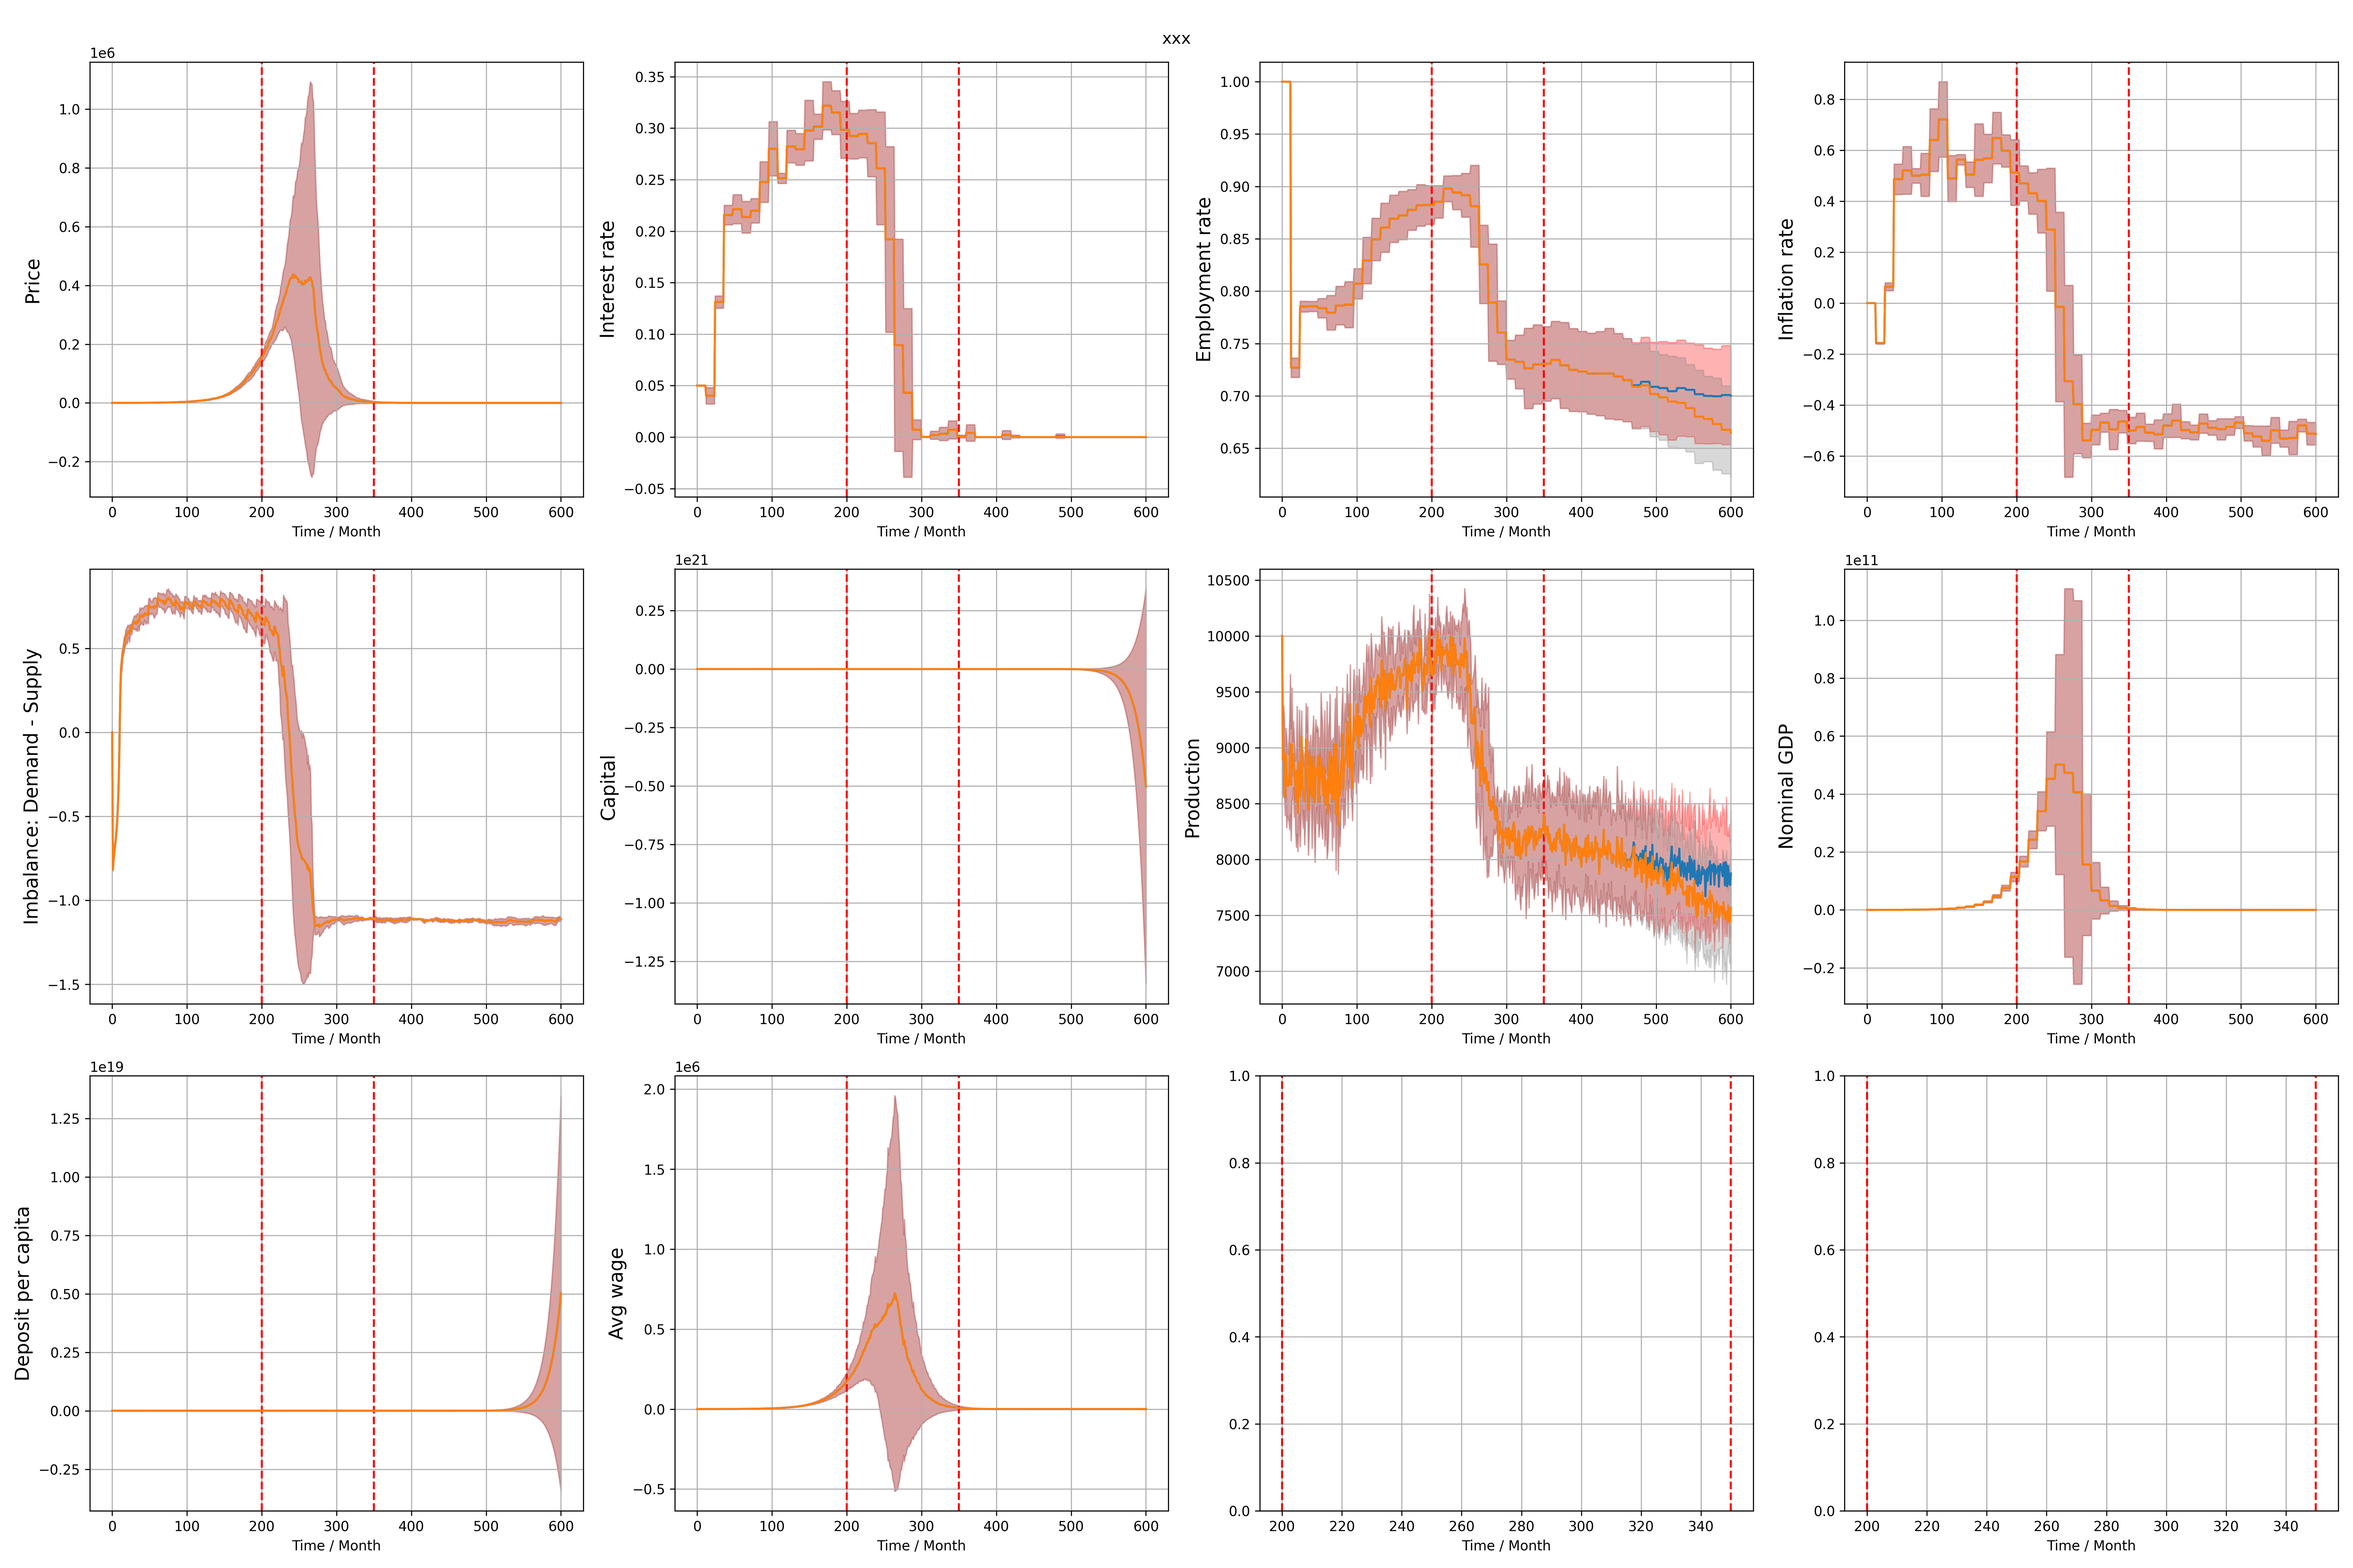
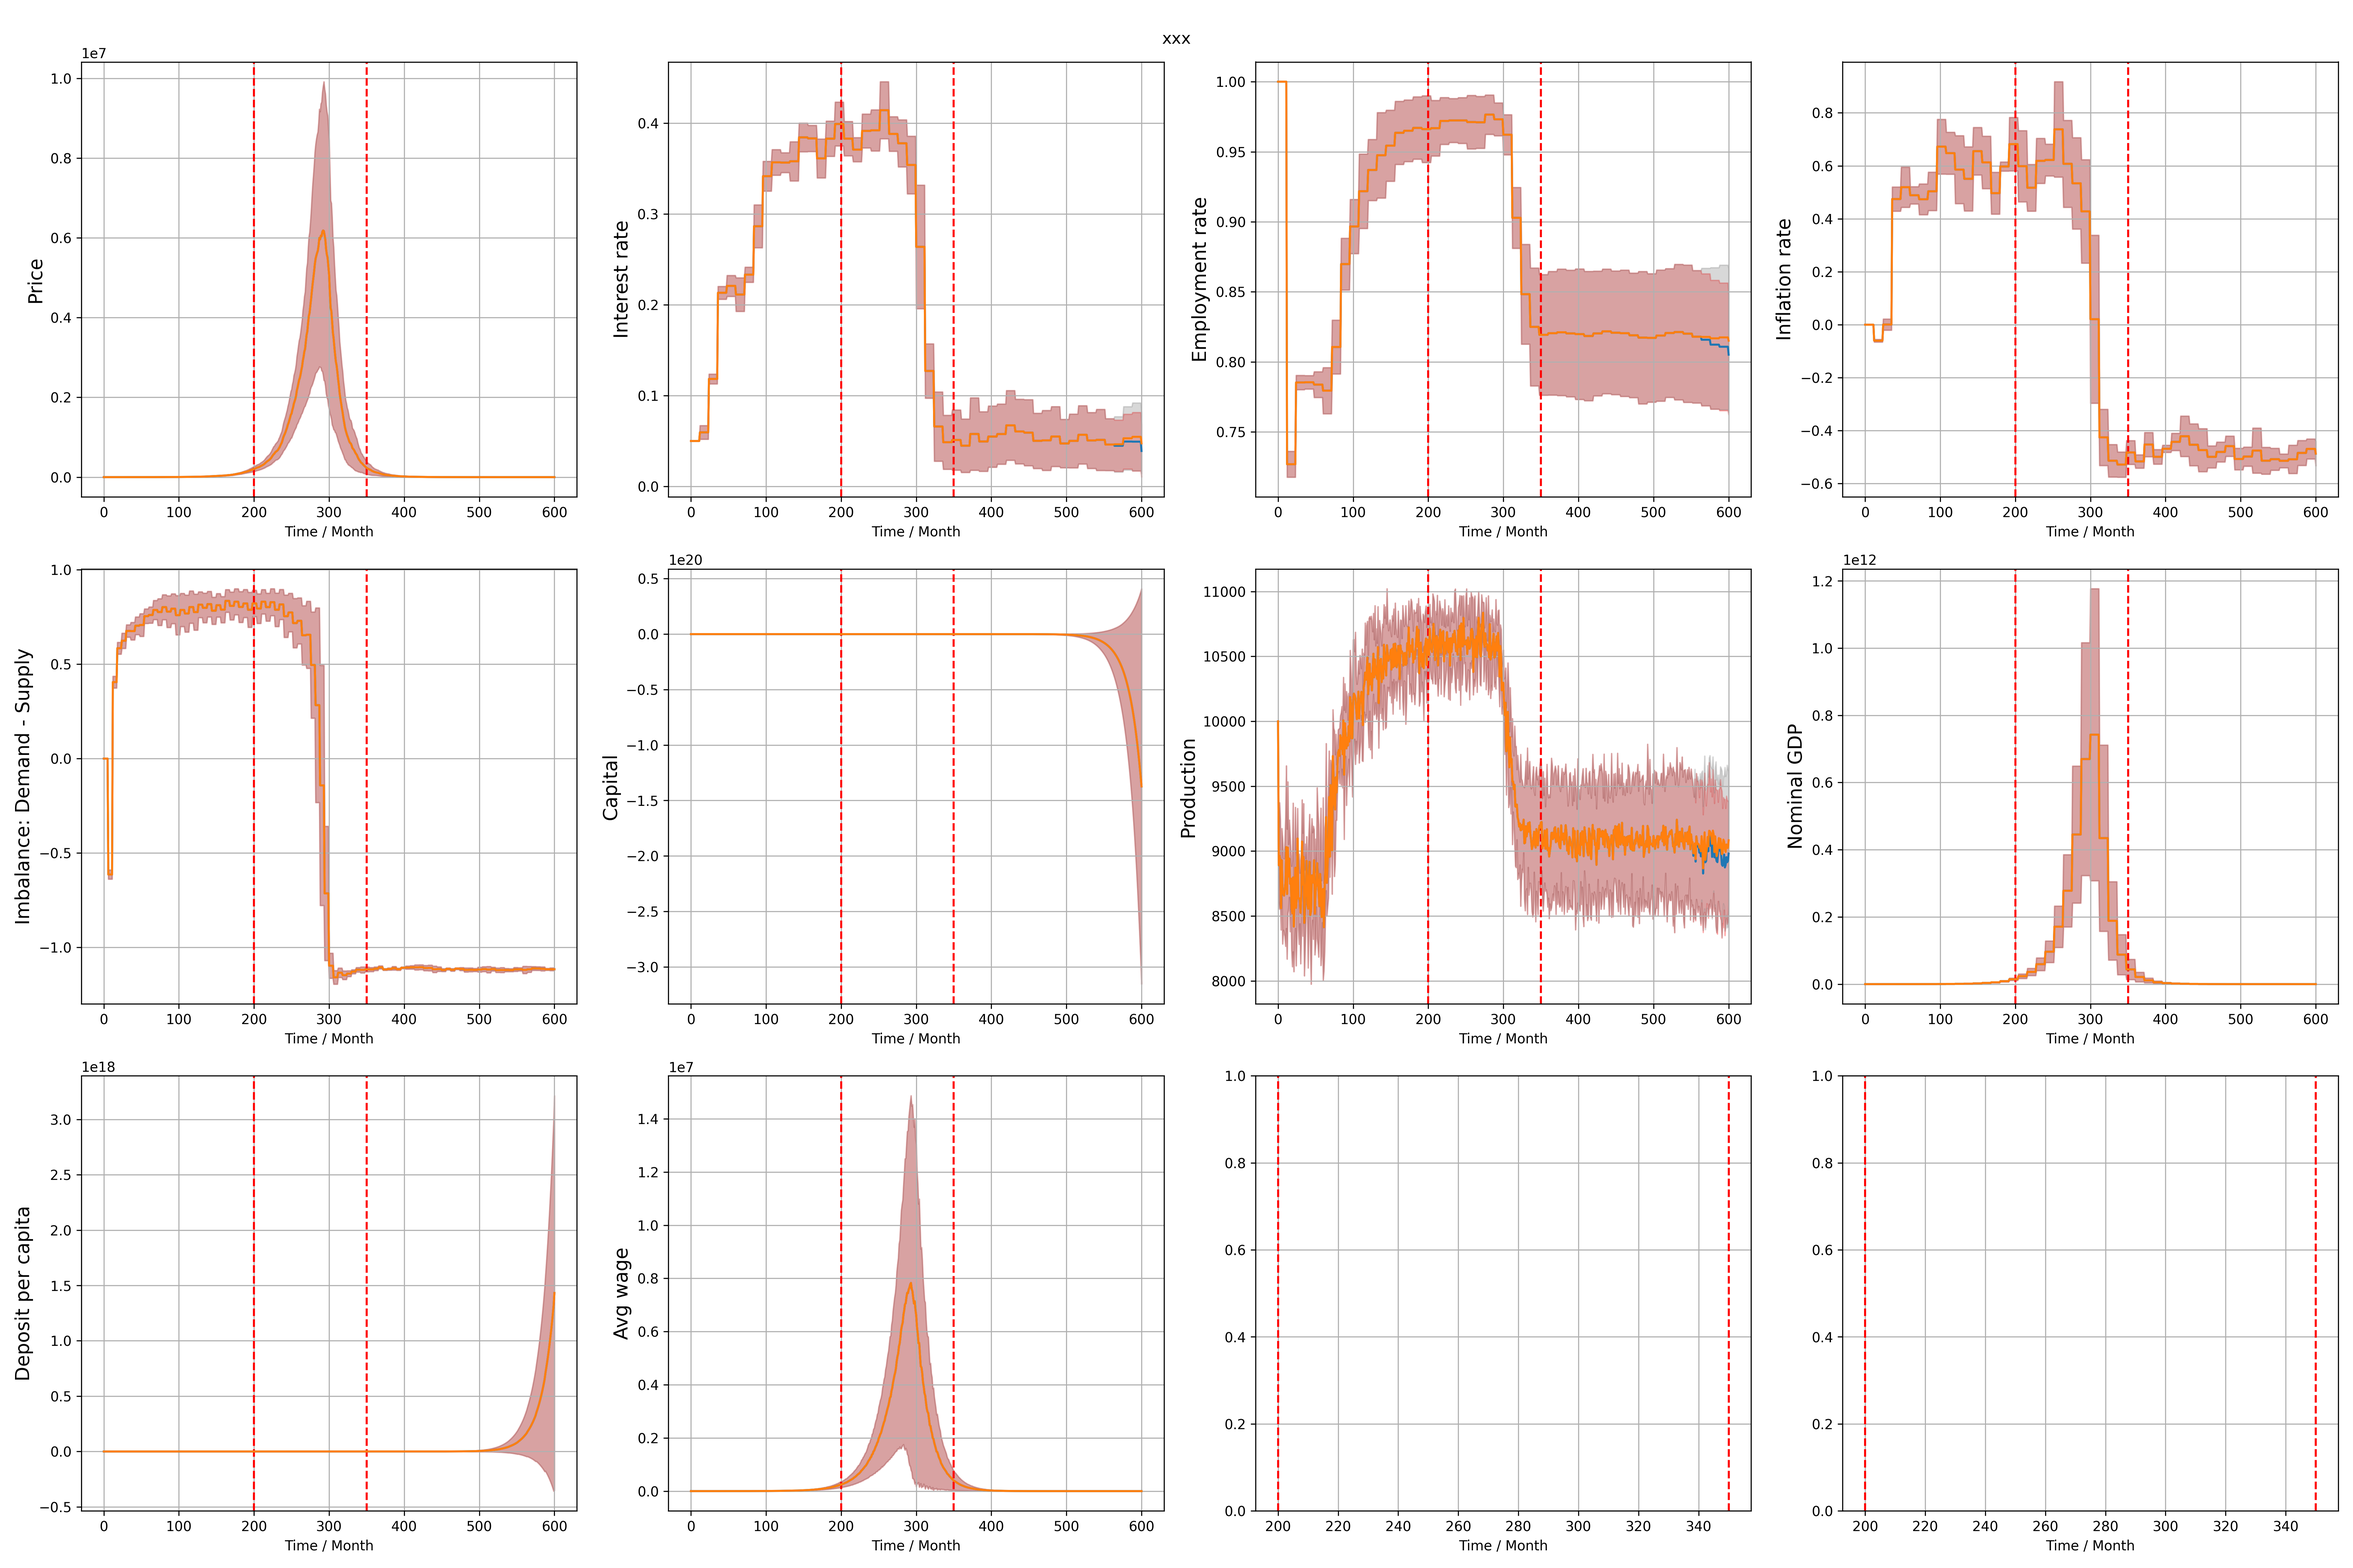
123

diff --git a/main.py b/main.py
@@ -15,7 +15,10 @@ def simulation(config:Configuration, event=False, intervention=False):
     
     F = firm(A=config.A, 
              alpha_w=config.alpha_w, 
-             alpha_p=config.alpha_p)
+             alpha_p=config.alpha_p,
+             init_good=config.init_good,
+             init_cap=config.init_cap,
+             )
     B = bank(rn=config.rn, 
              pi_t=config.pi_t, 
              un=config.un, 
@@ -27,26 +30,27 @@ def simulation(config:Configuration, event=False, intervention=False):
     agents = init_agents(config)
 
     F.P = np.mean([a.w for a in agents]) # t=0 initial price
-    unem_rate = 0.
-    infla_rate = 0.
-    Nominal_GDP = 0.
-    log = {}
-    log[0] = {
-        'year': 0,
-        'work_state': [a.l for a in agents], 
-        'wage': [a.w for a in agents],
-        'price': F.P, 
-        'rate': B.rate, 
-        'production': F.G,
-        'imbalance': 0,
-        'inflation_rate': infla_rate,
-        'taxes': 0,
-        'unemployment_rate': unem_rate,
-        'deposit': {i: 0.0 for i in range(config.num_agents)},
-        'avg_wage': sum([a.w for a in agents])/config.num_agents,
-        'GDP': Nominal_GDP,
-        'capital': F.capital,
-        }
+    unem_rate, infla_rate, Nominal_GDP = 0., 0., 0.
+    imba = 0.
+    log = {
+        0:
+            {
+                'year': 0,
+                'work_state': [a.l for a in agents], 
+                'wage': [a.w for a in agents],
+                'price': F.P, 
+                'rate': B.rate, 
+                'production': F.G,
+                'imbalance': imba,
+                'inflation_rate': infla_rate,
+                'taxes': 0,
+                'unemployment_rate': unem_rate,
+                'deposit': {i: 0.0 for i in range(config.num_agents)},
+                'avg_wage': sum([a.w for a in agents])/config.num_agents,
+                'GDP': Nominal_GDP,
+                'capital': F.capital,
+                }
+            }
     
     for t in range(1, config.num_time_steps+1):
         
@@ -85,12 +89,12 @@ def simulation(config:Configuration, event=False, intervention=False):
             
             ################ 干 预 开 始 ################
             if t >= config.intervent_start and t <= config.intervent_end and intervention:
-                B.deposit(a.id, w + sum(taxes)/config.num_agents + 900) # 0.04*B.deposits[a.id] redistribution
+                B.deposit(a.id, w + sum(taxes)/config.num_agents + 400) # 0.04*B.deposits[a.id] redistribution
             else:
                 B.deposit(a.id, w + sum(taxes)/config.num_agents) # redistribution
             ################ 干 预 结 束 ################
-        
-        phi_bar = imbalance(agents, F.P, F.G, B.deposits)
+        if t % 6 == 0:
+            imba = imbalance(agents, F.P, F.G, B.deposits)
         
         ###########################################
         # consumption in random order 随机顺序消费 #
@@ -114,8 +118,8 @@ def simulation(config:Configuration, event=False, intervention=False):
         # price and wage adjustment #
         #############################
         
-        F.wage_adjustment(agents, phi_bar)
-        F.price_adjustment(phi_bar)
+        F.wage_adjustment(agents, imba)
+        F.price_adjustment(imba)
         
         F.G = tmp_G
         
@@ -137,7 +141,7 @@ def simulation(config:Configuration, event=False, intervention=False):
             'price': F.P, 
             'rate': B.rate, 
             'production': production,
-            'imbalance':phi_bar,
+            'imbalance':imba,
             'inflation_rate': infla_rate,
             'taxes': sum(taxes),
             'unemployment_rate': unem_rate,
@@ -147,7 +151,7 @@ def simulation(config:Configuration, event=False, intervention=False):
             'capital': F.capital,
             }
         
-        if t % 6 == 0 and t > 60:
+        if t % 3 == 0 and t > 60:
             for a in agents:
                 a.adjust(t, log)
 
@@ -156,42 +160,42 @@ def simulation(config:Configuration, event=False, intervention=False):
 if __name__ == '__main__':
     from utils import plot_log, plot_bar
     from config import Configuration
+    from time import time
     
     config = Configuration()
-    config.seed = 123456
-    logs, logs_no_event = [], []
-    for i in range(5):
-        print(f'Simulation {i+1}/5')
-        config.seed += i
-        log = simulation(config, event=True, intervention=True)
-        logs.append(log)
-        log = simulation(config, event=False, intervention=False)
-        logs_no_event.append(log)
-        
-    plot_bar('./figs/bar-event-intervention.png', logs, logs_no_event, config)
+    t1 = time()
+    log = simulation(config)
+    plot_log('./figs/log.png', log, config)
+    print('running time:{:.3f}'.format(time()-t1))
     
-    config.seed = 123456
-    logs, logs_no_event = [], []
-    for i in range(5):
-        print(f'Simulation {i+1}/5')
-        config.seed += i
-        log = simulation(config, event=True, intervention=False)
-        logs.append(log)
-        log = simulation(config, event=False, intervention=False)
-        logs_no_event.append(log)
-        
-    plot_bar('./figs/bar-event-no-intervention.png', logs, logs_no_event, config)
+    # config = Configuration()
+    # config.seed = 123456
+    # logs, logs_no_event = [], []
+    # for i in range(5):
+    #     print(f'Simulation {i+1}/5')
+    #     config.seed += i
+    #     log = simulation(config, event=True, intervention=True)
+    #     logs.append(log)
+    #     log = simulation(config, event=False, intervention=False)
+    #     logs_no_event.append(log)
+    # plot_bar('./figs/bar-event-intervention.png', logs, logs_no_event, config)
     
-    config.seed = 123456
-    logs, logs_no_event = [], []
-    for i in range(5):
-        print(f'Simulation {i+1}/5')
-        config.seed += i
-        log = simulation(config, event=False, intervention=True)
-        logs.append(log)
-        log = simulation(config, event=False, intervention=False)
-        logs_no_event.append(log)
-        
-    plot_bar('./figs/bar-no-event-intervention.png', logs, logs_no_event, config)
-    # log = simulation(config)
-    # plot_log('log.png', log, config)
+    # config.seed = 123456
+    # logs = []
+    # for i in range(5):
+    #     print(f'Simulation {i+1}/5')
+    #     config.seed += i
+    #     log = simulation(config, event=True, intervention=False)
+    #     logs.append(log)
+    # plot_bar('./figs/bar-event-no-intervention.png', logs, logs_no_event, config)
+    
+    # config.seed = 123456
+    # logs = []
+    # for i in range(5):
+    #     print(f'Simulation {i+1}/5')
+    #     config.seed += i
+    #     log = simulation(config, event=False, intervention=True)
+    #     logs.append(log)
+    # plot_bar('./figs/bar-no-event-intervention.png', logs, logs_no_event, config)
+    # 
+    # 

diff --git a/utils.py b/utils.py
@@ -274,31 +274,32 @@ def plot_log(img_name:str, log:dict, config:Configuration):
     for i in range(3):
         for j in range(4):
             axs[i, j].set_xlabel('Time / Month'); axs[i, j].grid()
+            axs[i, j].axvline(x=config.event_start, color='r', linestyle='--')
+            axs[i, j].axvline(x=config.event_end, color='r', linestyle='--')
     
     price_history = [log[key]['price'] for key in log.keys()]
     rate_history = [log[key]['rate'] for key in log.keys()]
+    um_rate_history = [1-log[key]['unemployment_rate'] for key in log.keys()]
+    inflation_history = [log[key]['inflation_rate'] for key in log.keys()]
     imba_history = [log[key]['imbalance'] for key in log.keys()]
+    capital_history = [log[key]['capital'] for key in log.keys()]
+    production_history = [log[key]['production'] for key in log.keys()]
+    GDP_history = [log[key]['GDP'] for key in log.keys()]
+    deposit_history = [total_deposit(log[key]['deposit'])/config.num_agents for key in log.keys()]
+    wage_history = [log[key]['avg_wage'] for key in log.keys()]
     taxes_history = [log[key]['taxes']/config.num_agents for key in log.keys()]
     
-    axs[0, 0].plot(price_history); axs[0, 0].set_ylabel('Price')
-    
-    axs[0, 1].plot(rate_history); axs[0, 1].set_ylabel('Interest rate')
-    
-    axs[0, 2].plot([1-log[key]['unemployment_rate'] for key in log.keys()]); axs[0, 2].set_ylabel('Employment rate')
-    
-    axs[0, 3].plot([log[key]['GDP'] for key in log.keys()]); axs[0, 3].set_ylabel('Nominal GDP')
-    
-    axs[1, 0].plot(imba_history); axs[1, 0].set_ylabel('Imbalance: Demand - Supply')
-    
-    axs[1, 1].plot(taxes_history); axs[1, 1].set_ylabel('Avg tax revenue per capita')
-    
-    axs[1, 2].plot([log[key]['production'] for key in log.keys()]); axs[1, 2].set_ylabel('Production')
-    
-    axs[2, 0].plot([total_deposit(log[key]['deposit'])/config.num_agents for key in log.keys()]); axs[2, 0].set_ylabel('Deposit per capita')
-    
-    axs[2, 1].plot([log[key]['avg_wage'] for key in log.keys()]); axs[2, 1].set_ylabel('Avg wage')
-    
-    axs[2, 2].plot([log[key]['inflation_rate'] for key in log.keys()]); axs[2, 2].set_ylabel('Inflation rate')
+    axs[0, 0].plot(price_history);      axs[0, 0].set_ylabel('Price', fontsize=14)
+    axs[0, 1].plot(rate_history);       axs[0, 1].set_ylabel('Interest rate', fontsize=14)
+    axs[0, 2].plot(um_rate_history);    axs[0, 2].set_ylabel('Employment rate', fontsize=14)
+    axs[0, 3].plot(inflation_history);  axs[0, 3].set_ylabel('Inflation rate', fontsize=14)
+    axs[1, 0].plot(imba_history);       axs[1, 0].set_ylabel('Imbalance: Demand - Supply', fontsize=14)
+    axs[1, 1].plot(capital_history);    axs[1, 1].set_ylabel('Capital', fontsize=14)
+    axs[1, 2].plot(production_history); axs[1, 2].set_ylabel('Production', fontsize=14)
+    axs[1, 3].plot(GDP_history);        axs[1, 3].set_ylabel('Nominal GDP', fontsize=14)
+    axs[2, 0].plot(deposit_history);    axs[2, 0].set_ylabel('Deposit per capita', fontsize=14)
+    axs[2, 1].plot(wage_history);       axs[2, 1].set_ylabel('Avg wage', fontsize=14)
+    axs[2, 2].plot(taxes_history);      axs[2, 2].set_ylabel('Avg tax revenue per capita', fontsize=14)
     
     plt.tight_layout()
     plt.savefig(img_name, dpi=300)

diff --git a/src/firm.py b/src/firm.py
@@ -3,13 +3,19 @@ import numpy as np
 from src.agent import agent
 
 class firm:
-    def __init__(self, A:float, alpha_w:float, alpha_p:float):
-        self.A = A # universal productivity
-        self.G = 10000 # quantity of essential goods
-        self.P = 0 # price of essential goods
-        self.alpha_w = alpha_w # wage adjustment parameter
-        self.alpha_p = alpha_p # price adjustment parameter
-        self.capital = 0 # initial capital
+    def __init__(self, 
+                 A:float, 
+                 alpha_w:float, 
+                 alpha_p:float, 
+                 init_good:float,
+                 init_cap:float,
+                 ):
+        self.A = A               # universal productivity
+        self.G = init_good       # quantity of essential goods
+        self.P = 0               # price of essential goods
+        self.alpha_w = alpha_w   # wage adjustment parameter
+        self.alpha_p = alpha_p   # price adjustment parameter
+        self.capital = init_cap  # initial capital
 
     def produce(self, agent_list:list[agent],):
         '''

diff --git a/config.py b/config.py
@@ -23,6 +23,8 @@ class Configuration:
     A = 1.0         # 生产率
     alpha_w = 0.10
     alpha_p = 0.10
+    init_good = 10000
+    init_cap = 0
     
     #####################################
     ##           银行模型参数           ##
@@ -42,9 +44,9 @@ class Configuration:
     beta = 0.5
     
     pw_low = 0.60
-    pw_high = 0.95
+    pw_high = 1.0
     pc_low = 0.1
     pc_high = 0.4
     
-    pw_delta = 0.3
-    pc_delta = 0.005
+    pw_delta = 0.15
+    pc_delta = 0.002
